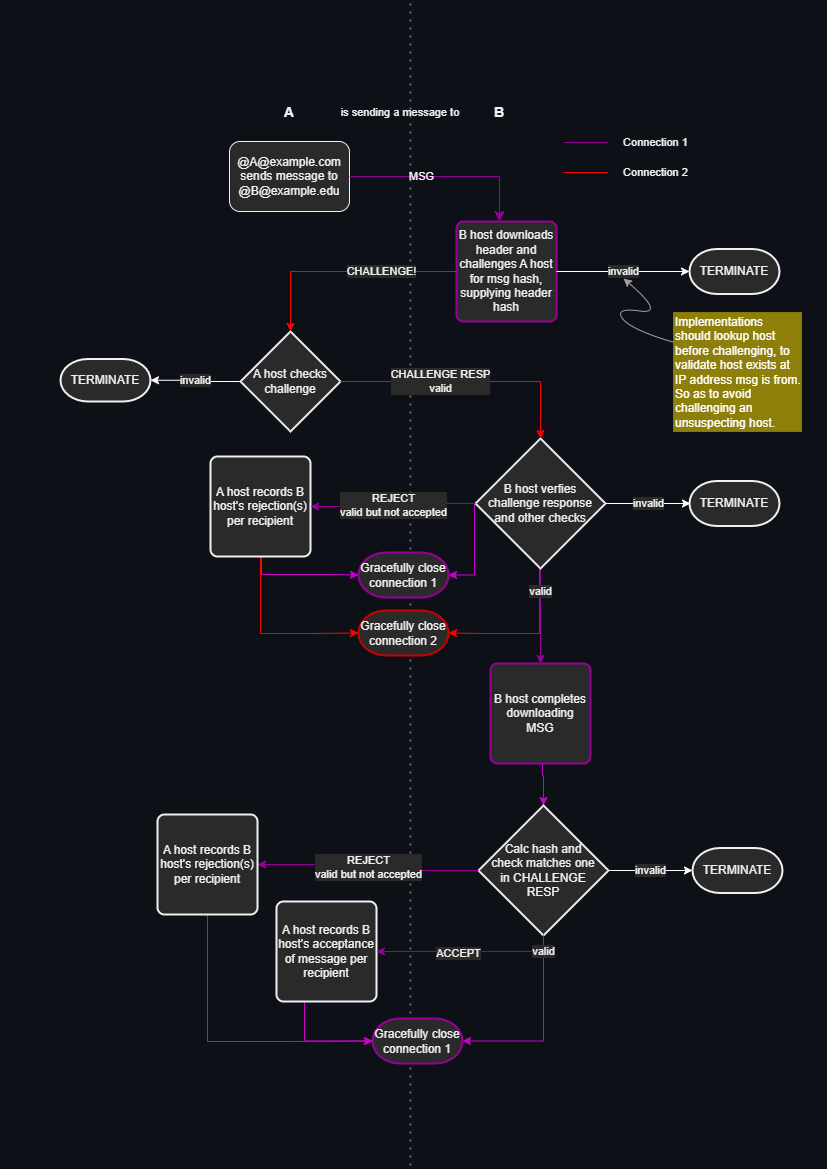
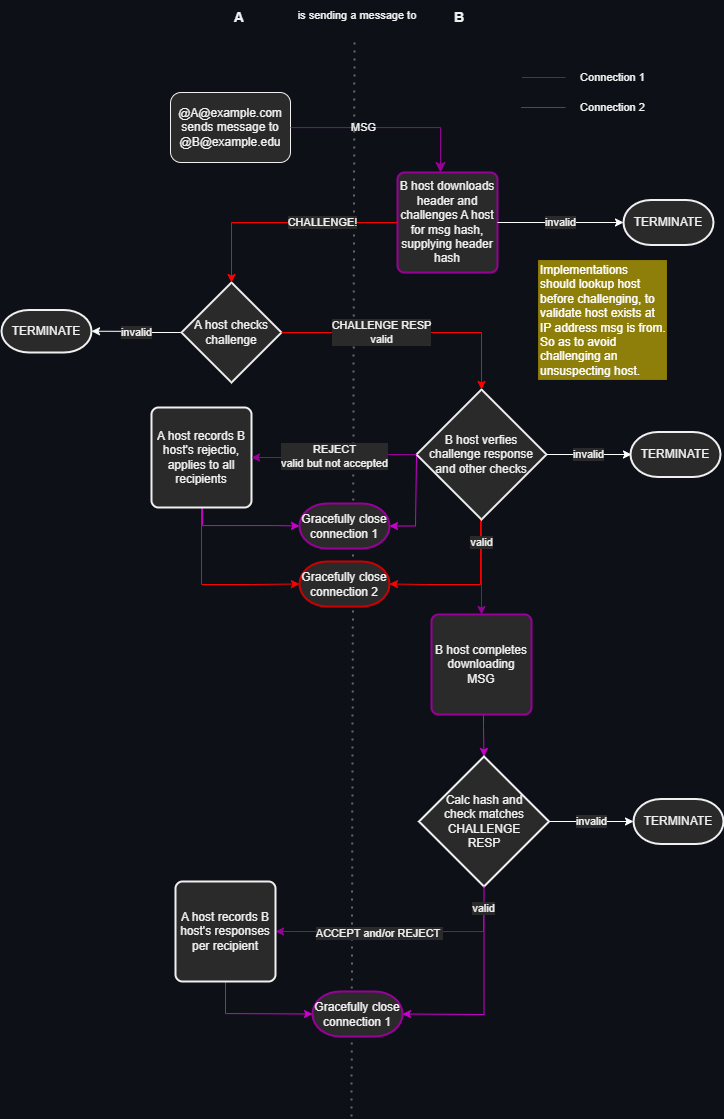
reject accept updates

diff --git a/README.md b/README.md
@@ -1,8 +1,8 @@
 # fmsg
 
-A message definition and protocol where messages are relational and verifiable by all peers. Messages are sent via a fmsg host to one or more recipients. Each message in a thread is linked to the previous using a cryptographic hash forming a hierarchical structure – a directed acyclic graph.
+A message definition and protocol where messages are relational and verifiable by all peers. Messages are sent via a fmsg host to one or more recipients. Each message in a thread is linked to the previous using a cryptographic hash forming a hierarchical directed acyclic graph.
 
-A key motivation for fmsg is to supersede electronic mail (email) keeping the good parts (like the ability to send messages directly to an address), with modern re-design to solve real-world defficencies of email today (like spam and the inefficiency and inconsistency of clients concatenating email chains in different ways). Implementations can use modern programming languages and features; whereas administering email servers today requires specialisation – worrisome given email's ubiquity. The high level objectives of fmsg are:
+The lofty ambition of fmsg is to supersede electronic mail (email) keeping the good parts (like the ability to send messages directly to an address), and solving the bad (like spam and the inefficiency and inconsistency of clients concatenating email chains in different ways). The high level objectives of fmsg are:
 
 * Verifiability – hosts cryptographically verify messages are "as written", the sending host can prove they are indeed sending the message, and, in the case of replies the sender has original.
 * Ownership and control – messages are direct at the host level without routing via a third party. Anyone or entity can setup a host at their domain.
@@ -21,10 +21,10 @@ In programmer friendly JSON a message looks like:
     "version": 1,
     "flags": 0,
     "pid": null,
-    "from": "@markmnl@fmsg.org",
+    "from": "@markmnl@fmsg.io",
     "to": [
-        "@tim@example.com",
-        "@chris@example.com"
+        "@世界@example.com",
+        "@chris@fmsg.io"
     ],
     "time": 1654503265.679954,
     "topic": "Hello fmsg!",
@@ -75,15 +75,15 @@ On the wire messages are encoded thus:
 
 ![fmsg address](address.png)
 
-Domain part is the domain name RFC-1035 fmsg host is located. Recipient part identifies the recipient known to host located at domain the message is from or to. A leading @ character is prepended to distinguish from email addresses. The secondary @ seperates recipient and domain name as per norm.
+Domain part is the domain name RFC-1035 fmsg host is located. Recipient part identifies the recipient known to host located at domain. A leading @ character is prepended to distinguish from email addresses. The secondary @ seperates recipient and domain name as per norm.
 
 Recipient part is a string of characters which must be:
 
 * UTF-8
-* unique on host using case insensitive comparison
 * any letter in any language, or any numeric characters
 * the hyphen "-" or underscore "_" characters non-consecutively and not at beginning or end
-* combined with domain name and @ characters less than 256 bytes length
+* unique on host using case insensitive comparison
+* less than 256 bytes length when combined with domain name and @ characters 
 
 A whole address is encoded UTF-8 prepended with size:
 
@@ -100,20 +100,24 @@ A whole address is encoded UTF-8 prepended with size:
 
 ### Challenge Response
 
+A challenge response is the next 32 bytes recieved in reply to challenge request - the existance of which indicates the sender accepted the challenge. This SHA-256 hash should be kept to ensnure the message (and attachments) once downloaded matches.
+
 |name|type|comment|
 |:----|:----|:----|
 | msg hash | 32 byte array | SHA-256 hash of entire message including header being sent/recieved. |
 
 ### Reject or Accept Response
 
+A code less than 100 indicates rejection for all recipients and will be the only value   
+
 |name|type|comment|
 |:----|:----|:----|
-| count | byte | the number of recepients and hence codes for in message for this host |
-| codes | byte array | a code, see below, for each recepient in message for this host in order |
+| codes | byte array | a single or sequence of unit8 codes|
+
 
 #### Reject or Accept Response Codes
 
-Any code other than 255 is a rejection..
+Any code other than 255 is a rejection. Each code is a unit8.
 
 |code | name                  | description                                                             |
 |----:|-----------------------|-------------------------------------------------------------------------|
@@ -123,8 +127,9 @@ Any code other than 255 is a rejection..
 | 4   | parent unavaliable    | the parent is unavaliable at this time to verify pid supplied           |
 | 5   | past time             | timestamp in the message is too far in the past for this host to accept |
 | 6   | future time           | timestamp in message is too far in the future for this host to accept   |
-| 7   | user unknown          | the recipient message is addressed to is unknown by this host                |
-| 8   | user full             | insufficent resources for specific recipient          |
+|     |                       |                                                                         |
+| 100 | user unknown          | the recipient message is addressed to is unknown by this host           |
+| 101 | user full             | insufficent resources for specific recipient                            |
 |     |                       |                                                                         |
 | 255 | accept                | message recieved                                                        |
 
@@ -144,11 +149,3 @@ Two connection-orientated, reliable, in-order and duplex transports are required
 * A new connection is opened from the recieving host to the purported sender's domain so the receiving host can verify sending host indeed exists _and_ can prove they are sending this message (in the CHALLENGE, CHALLENGE RESP exchange). 
 * A host reaching the TERMINATE step should tear down connection(s) without regard for the other end because they must be either malicious or not following the protocol! 
 * Where a message is being sent and connection closed, closing only starts after message is sent/recieved, i.e. not concurrently.
-
-### Verfications
-
-#### Challenge
-
-#### Challenge Response
-
-#### Message Downloaded
